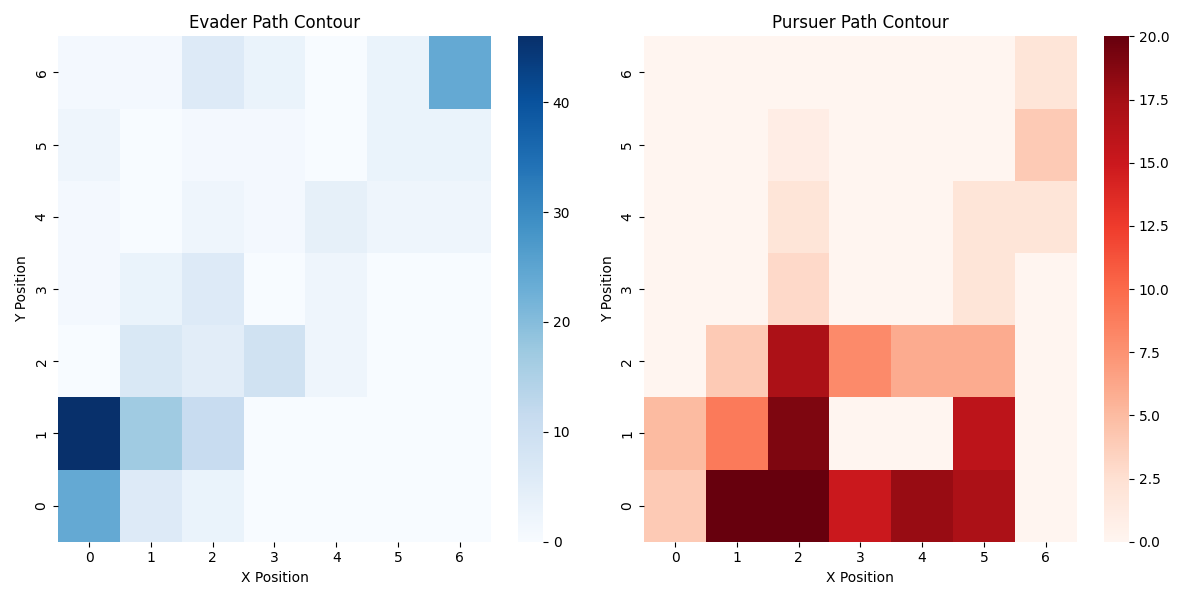
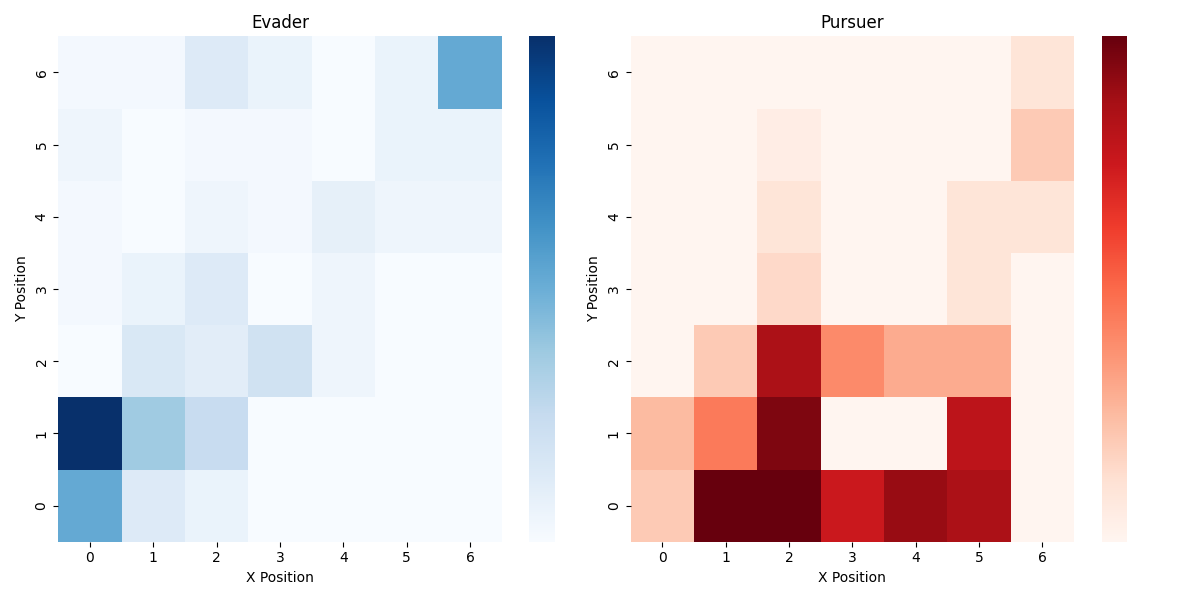
Working - Fine changes

diff --git a/results/generate_heatmaps.py b/results/generate_heatmaps.py
@@ -68,24 +68,32 @@ def generate_heatmaps():
     for pursuer_x, pursuer_y in pursuer_positions_array:
         pursuer_heatmap[pursuer_y, pursuer_x] += 1  # Increment heatmap at the pursuer's position
     
+    # Define the common range for color scale normalization
+    # vmin = min(evader_heatmap.min(), pursuer_heatmap.min())
+    # vmax = max(evader_heatmap.max(), pursuer_heatmap.max())
+
     # Plot the heatmaps
     plt.figure(figsize=(12, 6))
     
     # Evader Heatmap
     plt.subplot(1, 2, 1)
     sns.heatmap(evader_heatmap, cmap="Blues", annot=False, cbar=True)
-    plt.title("Evader Path Contour")
+    plt.title("Evader")
     plt.xlabel("X Position")
     plt.ylabel("Y Position")
     plt.gca().invert_yaxis()
+    cbar = plt.gca().collections[0].colorbar
+    cbar.set_ticks([])
     
     # Pursuer Heatmap
     plt.subplot(1, 2, 2)
     sns.heatmap(pursuer_heatmap, cmap="Reds", annot=False, cbar=True)
-    plt.title("Pursuer Path Contour")
+    plt.title("Pursuer")
     plt.xlabel("X Position")
     plt.ylabel("Y Position")
     plt.gca().invert_yaxis()
+    cbar = plt.gca().collections[0].colorbar
+    cbar.set_ticks([])
     
     # Save the heatmaps as an image file
     plt.tight_layout()

diff --git a/results/visualize_results.py b/results/visualize_results.py
@@ -177,14 +177,3 @@ if __name__ == "__main__":
                 renderer.generate_gif()
             else:
                 logging.warning(f"File {file_path} does not exist, skipping.")
-
-    # for run_number in range(1, 3):
-    #     env_file = os.path.join(results_folder, f"simulation_results_run_{run_number}.csv")
-    #     output_gif = os.path.join(results_folder, f"simulation_run_{run_number}.gif")
-        
-    #     if os.path.exists(env_file):
-    #         logging.info(f"Generating GIF for {env_file}...")
-    #         renderer = GridGifRenderer(env_file, output_gif)
-    #         renderer.generate_gif()
-    #     else:
-    #         logging.warning(f"File {env_file} does not exist, skipping.")
